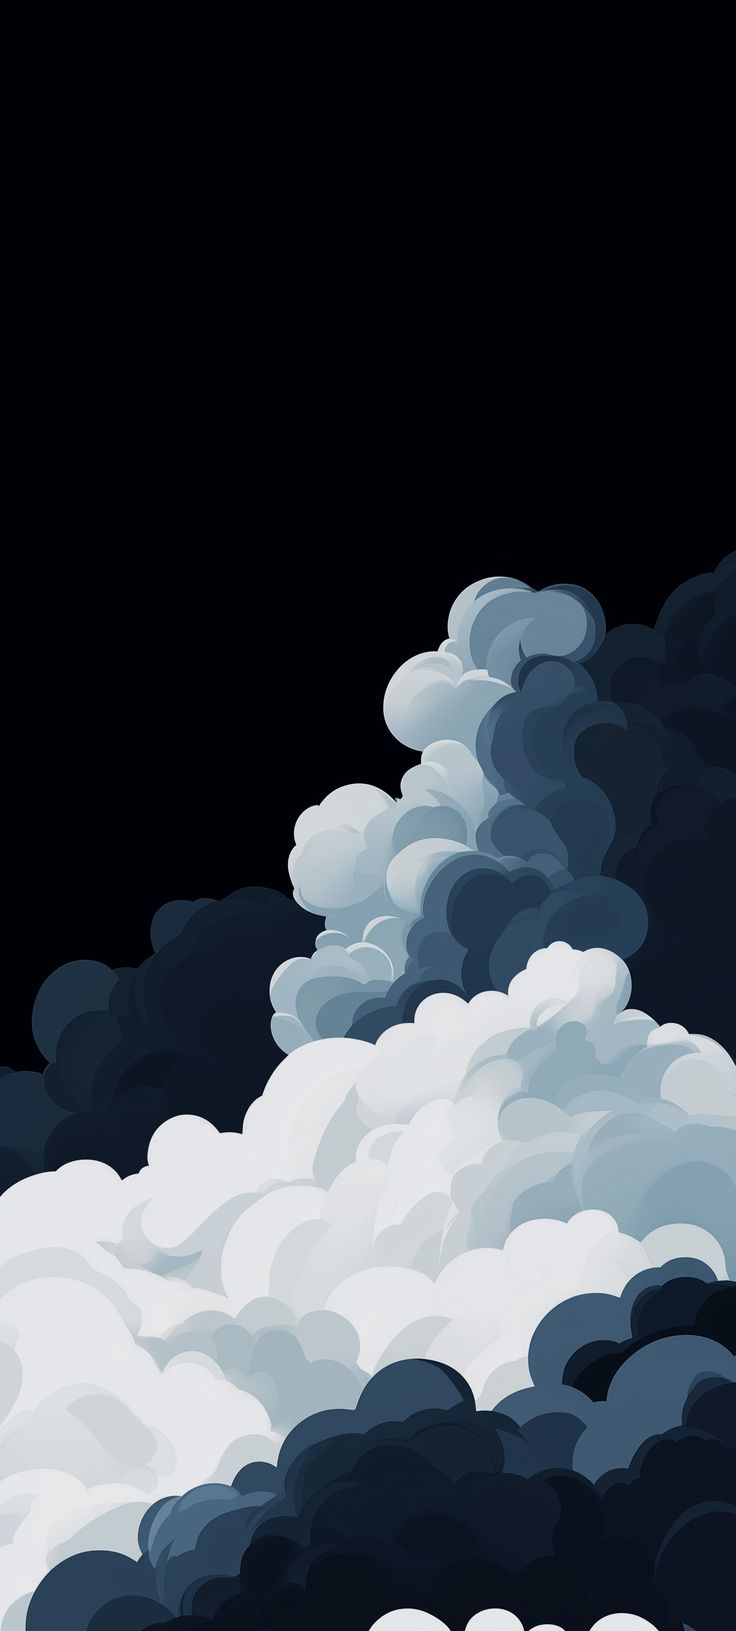
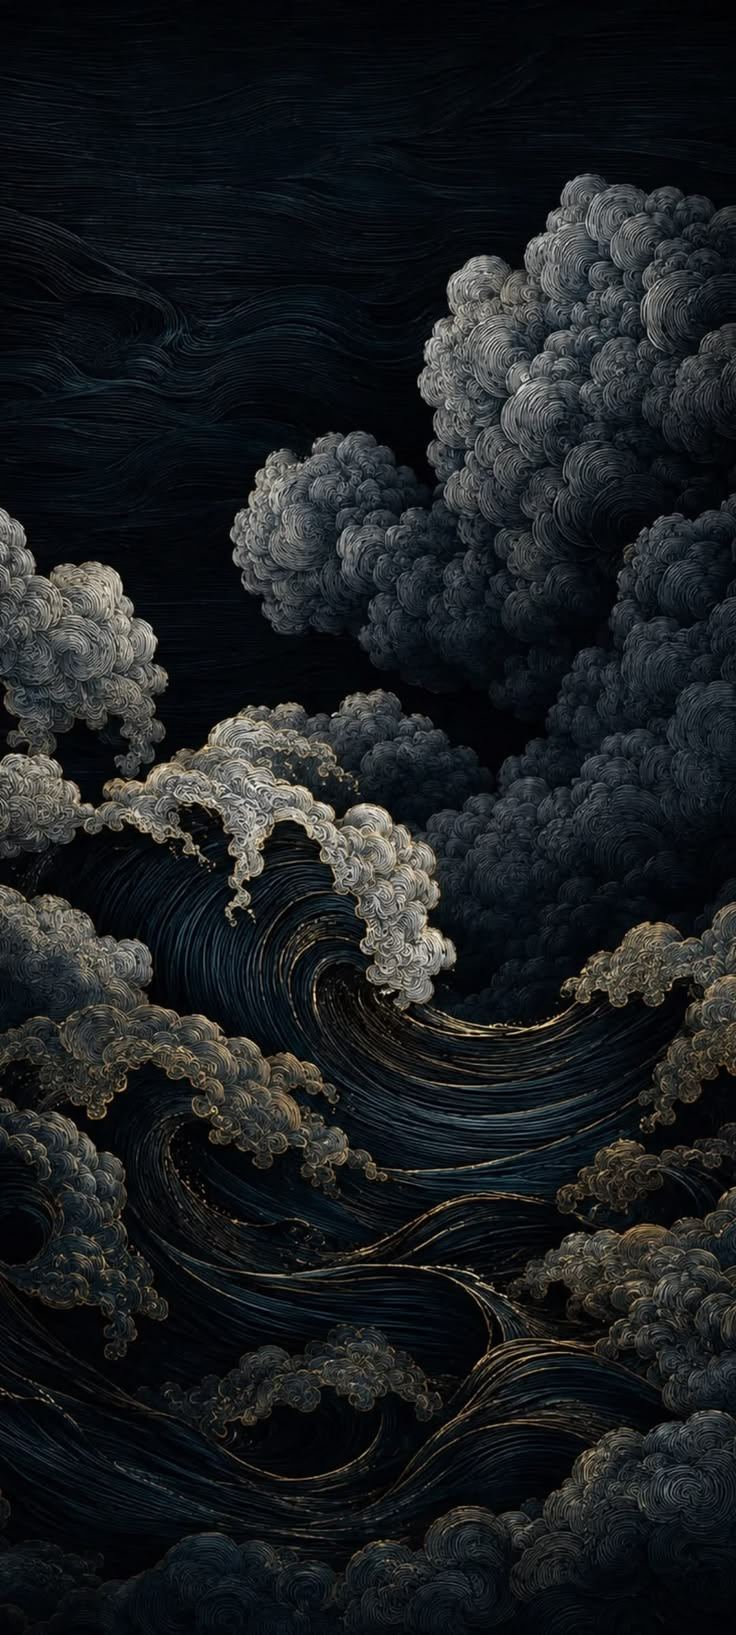
configuración PWA tercer intento

diff --git a/app.js b/app.js
@@ -2,32 +2,32 @@
   'use strict';
 
   /* =========================================================================
-   * 1. MAPEO DE APLICACIONES (ANDROID / IOS)
+   * 1. MAPEO DE APLICACIONES (ANDROID / IOS) CON RUTAS CORREGIDAS
    * ========================================================================= */
   const SYSTEM_APPS = [
-    { id: 'mail', name: 'Mail', icon: { android: 'assets/icons/Android/mail.png', ios: 'assets/icons/IOS/ios14_mail.png' }, page: 0 },
-    { id: 'maps', name: 'Maps', icon: { android: 'assets/icons/Android/maps.png', ios: 'assets/icons/IOS/ios14_maps.png' }, page: 0 },
-    { id: 'gallery', name: 'Fotos', icon: { android: 'assets/icons/Android/gallery.png', ios: 'assets/icons/IOS/ios14_photos.png' }, page: 0, isTrigger: true },
-    { id: 'whatsapp', name: 'WhatsApp', icon: { android: 'assets/icons/Android/whatsapp.png', ios: 'assets/icons/IOS/ios14_whatsapp.png' }, page: 0 },
-    { id: 'instagram', name: 'Instagram', icon: { android: 'assets/icons/Android/instagram.png', ios: 'assets/icons/IOS/ios14_instagram.png' }, page: 0 },
-    { id: 'telegram', name: 'Telegram', icon: { android: 'assets/icons/Android/telegram.png', ios: 'assets/icons/IOS/ios14_telegram.png' }, page: 0 },
-    { id: 'calendar', name: 'Calendario', icon: { android: 'assets/icons/Android/calendar.png', ios: 'assets/icons/IOS/ios14_calendar.png' }, page: 0 },
-    { id: 'settings', name: 'Ajustes', icon: { android: 'assets/icons/Android/settings.png', ios: 'assets/icons/IOS/ios14_settings.png' }, page: 0, isSettings: true },
+    { id: 'mail', name: 'Mail', icon: { android: './assets/icons/Android/mail.png', ios: './assets/icons/IOS/ios14_mail.png' }, page: 0 },
+    { id: 'maps', name: 'Maps', icon: { android: './assets/icons/Android/maps.png', ios: './assets/icons/IOS/ios14_maps.png' }, page: 0 },
+    { id: 'gallery', name: 'Fotos', icon: { android: './assets/icons/Android/gallery.png', ios: './assets/icons/IOS/ios14_photos.png' }, page: 0, isTrigger: true },
+    { id: 'whatsapp', name: 'WhatsApp', icon: { android: './assets/icons/Android/whatsapp.png', ios: './assets/icons/IOS/ios14_whatsapp.png' }, page: 0 },
+    { id: 'instagram', name: 'Instagram', icon: { android: './assets/icons/Android/instagram.png', ios: './assets/icons/IOS/ios14_instagram.png' }, page: 0 },
+    { id: 'telegram', name: 'Telegram', icon: { android: './assets/icons/Android/telegram.png', ios: './assets/icons/IOS/ios14_telegram.png' }, page: 0 },
+    { id: 'calendar', name: 'Calendario', icon: { android: './assets/icons/Android/calendar.png', ios: './assets/icons/IOS/ios14_calendar.png' }, page: 0 },
+    { id: 'settings', name: 'Ajustes', icon: { android: './assets/icons/Android/settings.png', ios: './assets/icons/IOS/ios14_settings.png' }, page: 0, isSettings: true },
 
-    { id: 'files', name: 'Archivos', icon: { android: 'assets/icons/Android/files.png', ios: 'assets/icons/IOS/ios14_files.png' }, page: 1 },
-    { id: 'notes', name: 'Notas', icon: { android: 'assets/icons/Android/notes.png', ios: 'assets/icons/IOS/ios14_notes.png' }, page: 1 },
-    { id: 'calculator', name: 'Calculadora', icon: { android: 'assets/icons/Android/calculator.png', ios: 'assets/icons/IOS/ios14_calculator.png' }, page: 1 },
-    { id: 'contacts', name: 'Contactos', icon: { android: 'assets/icons/Android/contacts.png', ios: 'assets/icons/IOS/ios14_contacts.png' }, page: 1 },
-    { id: 'clock', name: 'Reloj', icon: { android: 'assets/icons/Android/clock.png', ios: 'assets/icons/IOS/ios14_clock.png' }, page: 1 },
+    { id: 'files', name: 'Archivos', icon: { android: './assets/icons/Android/files.png', ios: './assets/icons/IOS/ios14_files.png' }, page: 1 },
+    { id: 'notes', name: 'Notas', icon: { android: './assets/icons/Android/notes.png', ios: './assets/icons/IOS/ios14_notes.png' }, page: 1 },
+    { id: 'calculator', name: 'Calculadora', icon: { android: './assets/icons/Android/calculator.png', ios: './assets/icons/IOS/ios14_calculator.png' }, page: 1 },
+    { id: 'contacts', name: 'Contactos', icon: { android: './assets/icons/Android/contacts.png', ios: './assets/icons/IOS/ios14_contacts.png' }, page: 1 },
+    { id: 'clock', name: 'Reloj', icon: { android: './assets/icons/Android/clock.png', ios: './assets/icons/IOS/ios14_clock.png' }, page: 1 },
 
-    { id: 'youtube', name: 'YouTube', icon: { android: 'assets/icons/Android/youtube.png', ios: 'assets/icons/IOS/ios14_youtube.png' }, page: 2 },
-    { id: 'spotify', name: 'Spotify', icon: { android: 'assets/icons/Android/spotify.png', ios: 'assets/icons/IOS/ios14_spotify.png' }, page: 2 },
-    { id: 'tinder', name: 'Tinder', icon: { android: 'assets/icons/Android/tinder.png', ios: 'assets/icons/IOS/ios14_tinder.png' }, page: 2 },
+    { id: 'youtube', name: 'YouTube', icon: { android: './assets/icons/Android/youtube.png', ios: './assets/icons/IOS/ios14_youtube.png' }, page: 2 },
+    { id: 'spotify', name: 'Spotify', icon: { android: './assets/icons/Android/spotify.png', ios: './assets/icons/IOS/ios14_spotify.png' }, page: 2 },
+    { id: 'tinder', name: 'Tinder', icon: { android: './assets/icons/Android/tinder.png', ios: './assets/icons/IOS/ios14_tinder.png' }, page: 2 },
 
-    { id: 'phone', name: 'Teléfono', icon: { android: 'assets/icons/Android/phone.png', ios: 'assets/icons/IOS/ios14_phone.png' }, isDock: true },
-    { id: 'messages', name: 'Mensajes', icon: { android: 'assets/icons/Android/messages.png', ios: 'assets/icons/IOS/ios14_messages.png' }, isDock: true },
-    { id: 'browser', name: 'Safari', icon: { android: 'assets/icons/Android/browser.png', ios: 'assets/icons/IOS/ios14_safari.png' }, isDock: true },
-    { id: 'camera', name: 'Cámara', icon: { android: 'assets/icons/Android/camera.png', ios: 'assets/icons/IOS/ios14_camera.png' }, isDock: true }
+    { id: 'phone', name: 'Teléfono', icon: { android: './assets/icons/Android/phone.png', ios: './assets/icons/IOS/ios14_phone.png' }, isDock: true },
+    { id: 'messages', name: 'Mensajes', icon: { android: './assets/icons/Android/messages.png', ios: './assets/icons/IOS/ios14_messages.png' }, isDock: true },
+    { id: 'browser', name: 'Safari', icon: { android: './assets/icons/Android/browser.png', ios: './assets/icons/IOS/ios14_safari.png' }, isDock: true },
+    { id: 'camera', name: 'Cámara', icon: { android: './assets/icons/Android/camera.png', ios: './assets/icons/IOS/ios14_camera.png' }, isDock: true }
   ];
 
   /* =========================================================================

diff --git a/index.html b/index.html
@@ -4,12 +4,19 @@
   <meta charset="utf-8">
   <meta name="viewport" content="width=device-width, initial-scale=1, viewport-fit=cover, user-scalable=no">
   <meta name="theme-color" content="#121217">
-  <title>Mental Picture PWA</title>
   
-<link rel="icon" type="image/png" href="./icon.png">
-<link rel="apple-touch-icon" href="./icon.png">
-<link rel="manifest" href="./manifest.json">
-<link rel="stylesheet" href="./styles.css">
+  <!-- Metaetiquetas para pantalla completa móvil y PWA -->
+  <meta name="apple-mobile-web-app-capable" content="yes">
+  <meta name="apple-mobile-web-app-status-bar-style" content="black-translucent">
+  <meta name="mobile-web-app-capable" content="yes">
+
+  <title>Cphone</title>
+  
+  <link rel="icon" type="image/png" href="./icon.png">
+  <link rel="apple-touch-icon" href="./icon.png">
+  <link rel="manifest" href="./manifest.json">
+  
+  <link rel="stylesheet" href="./styles.css">
 </head>
 <body>
 
@@ -66,7 +73,7 @@
       </div>
 
       <!-- Botón de Inicio en Verde -->
-      <button class="neu-btn-submit btn-green" id="btn-start-trick">Iniciar</button>
+      <button class="neu-btn-submit btn-green" id="btn-start-trick">Iniciar Simulación</button>
 
     </div>
   </section>
@@ -287,7 +294,7 @@
         </header>
 
         <div class="gallery-stage" id="gallery-stage">
-          <img id="revealed-photo-img" src="assets/demo.jpg" alt="Foto Revelada">
+          <img id="revealed-photo-img" src="./assets/demo.jpg" alt="Foto Revelada">
         </div>
 
         <footer class="gallery-bottom-bar">
@@ -305,6 +312,6 @@
 
 </div>
 
-<script src="app.js" defer></script>
+<script src="./app.js" defer></script>
 </body>
 </html>
